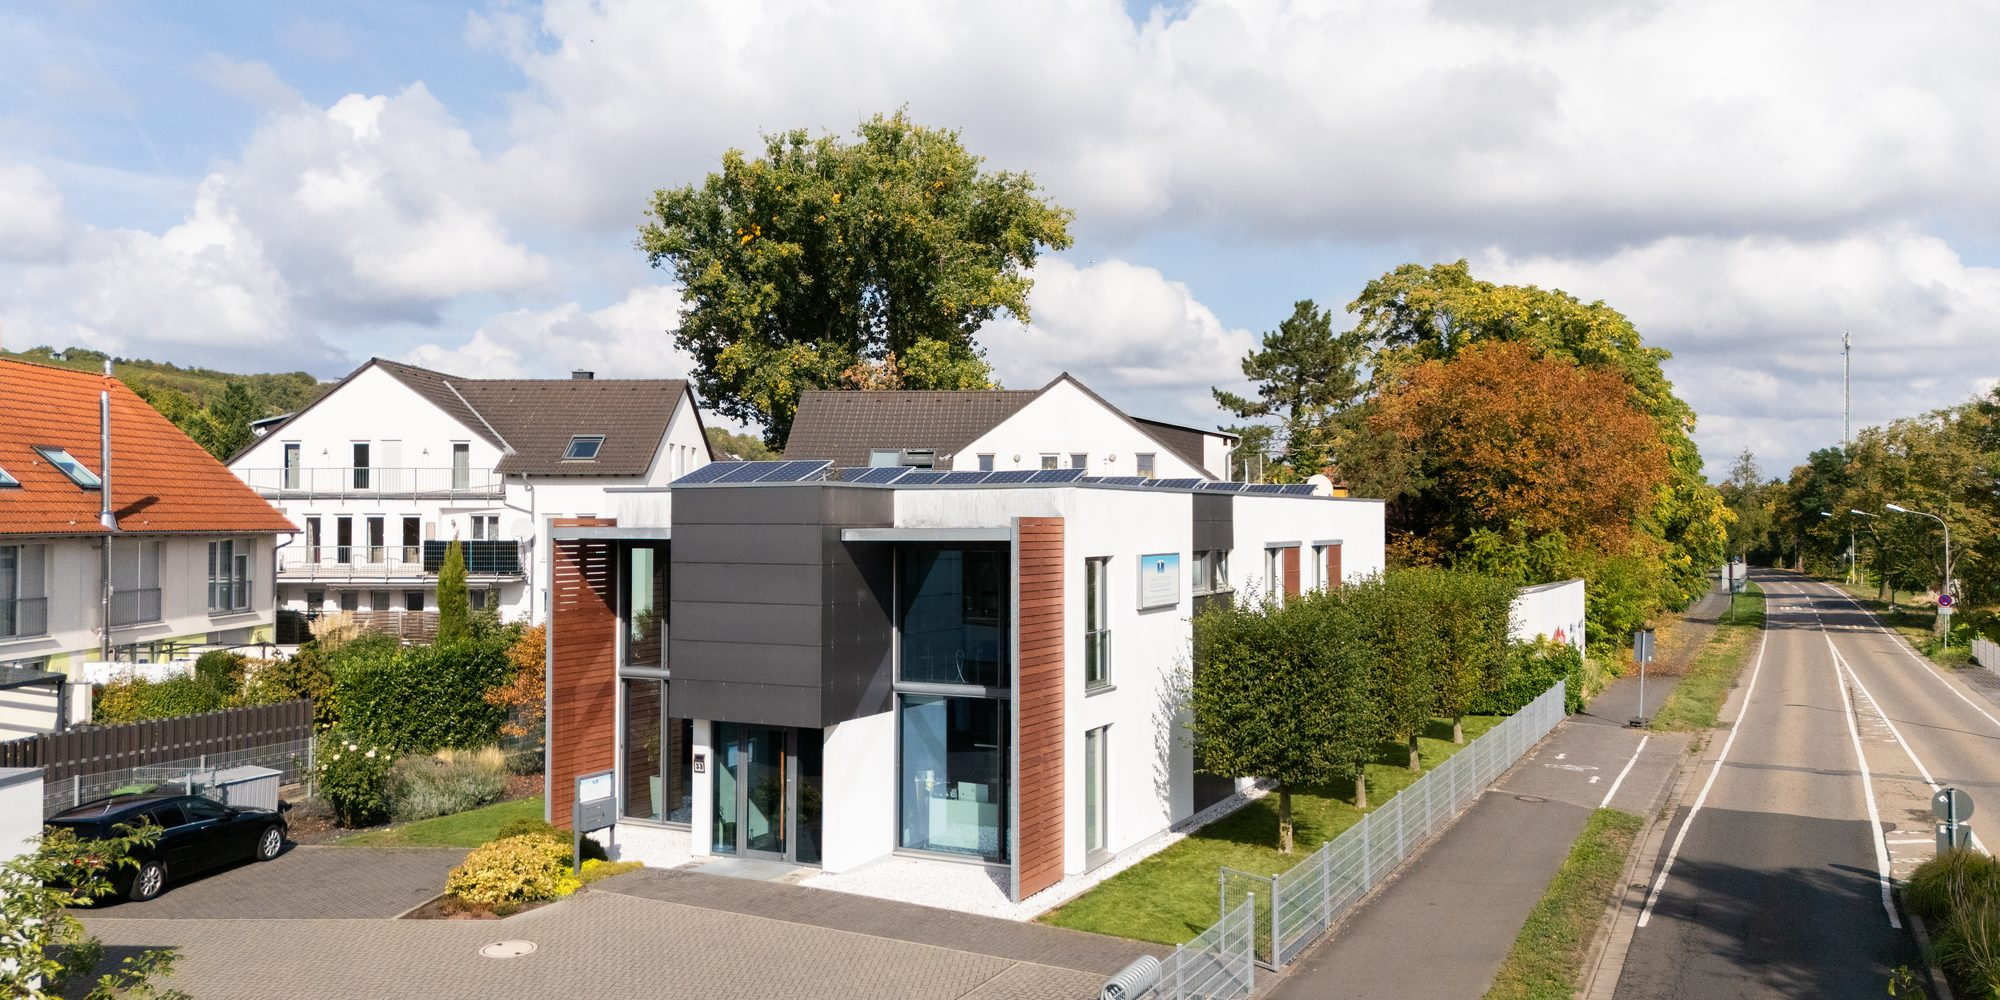
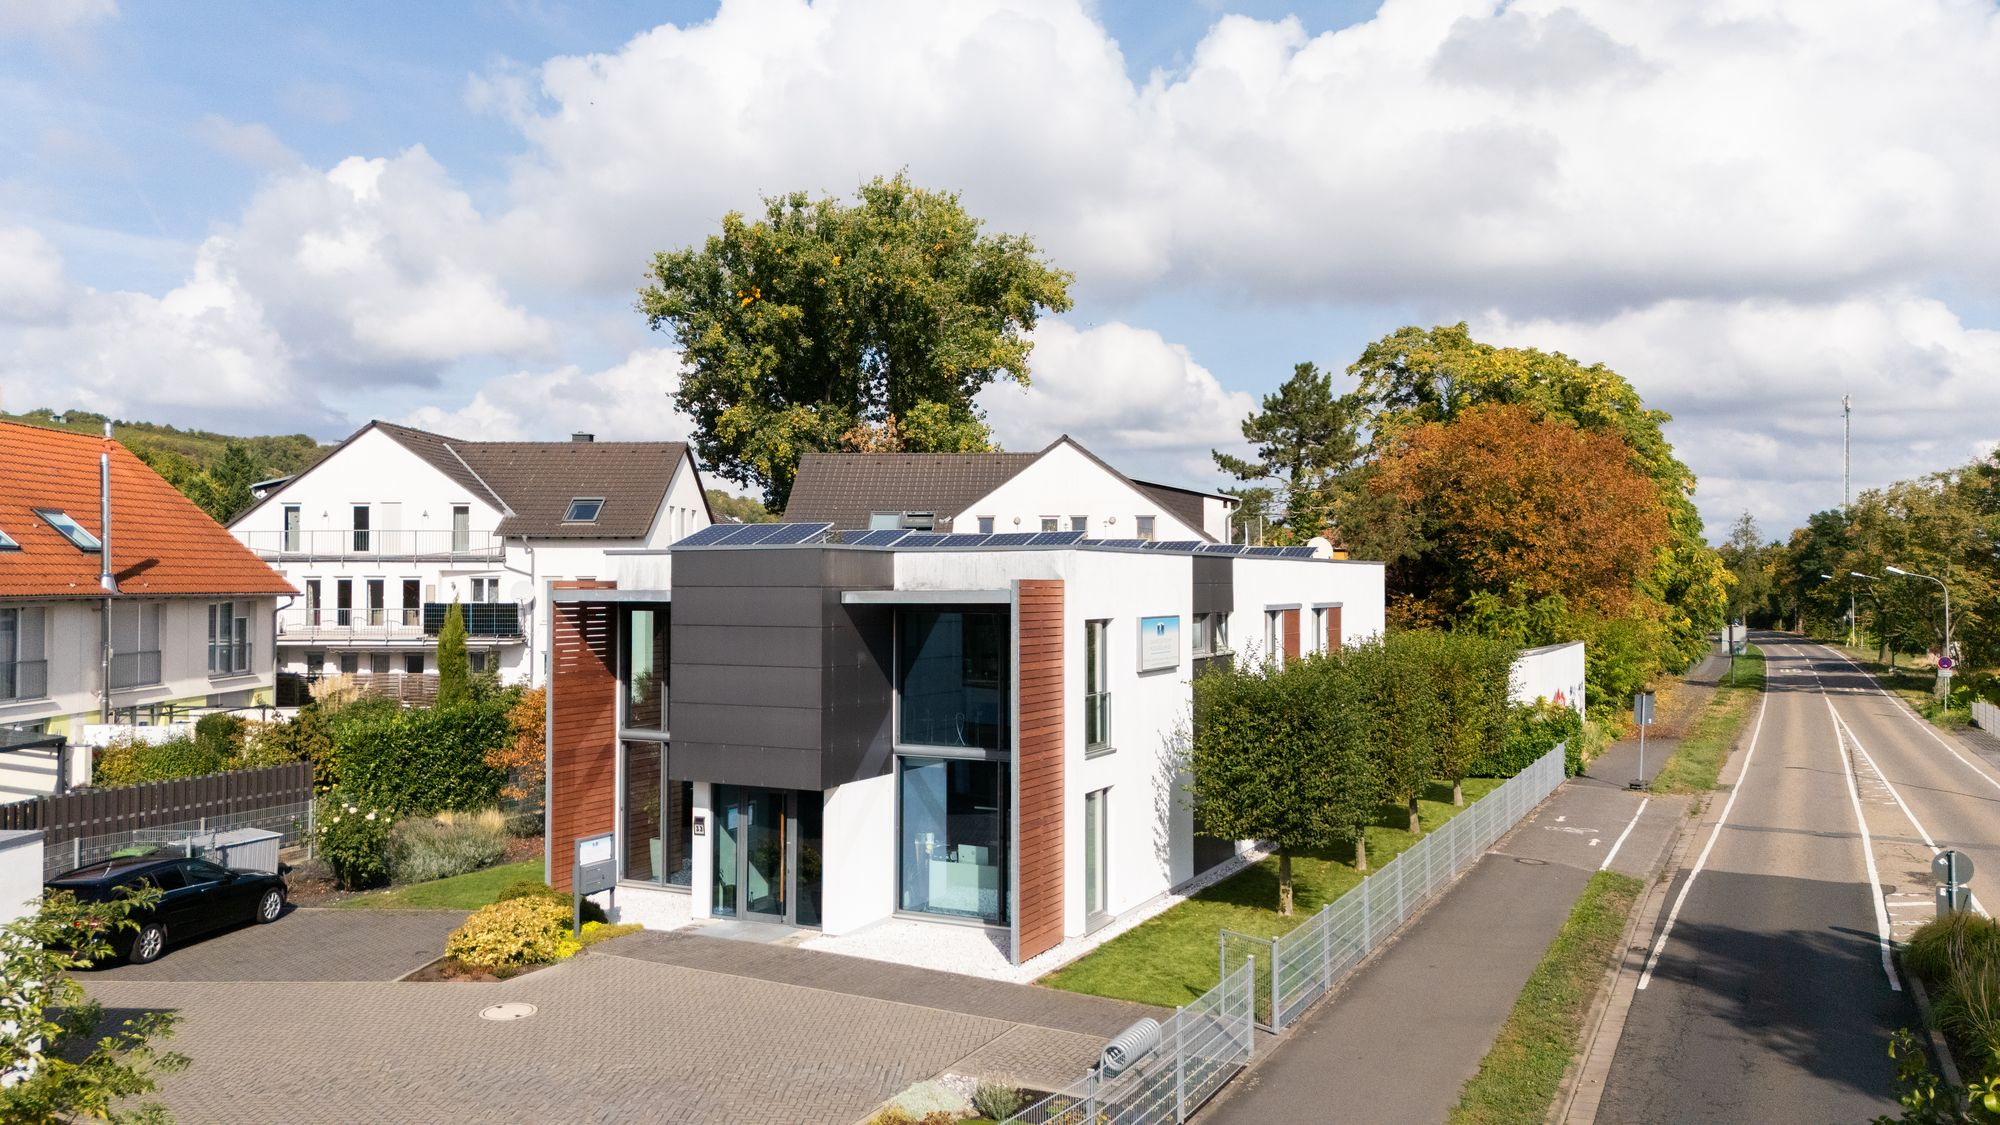
Praxis-Kopfbild weiter nach unten gesetzt (Wunsch Awan)
Bild Nr. 10 jetzt in voller Höhe (2000x1125 statt auf 2:1 beschnitten) und mit
object-position 50% 85%, damit auf breiten Bildschirmen die Fassade zu sehen ist und nicht nur das Dach.

Claude-Session: https://claude.ai/code/session_01N6LENLdCUHbCSPuMQbj8wW

diff --git a/website/praxis.html b/website/praxis.html
@@ -47,7 +47,7 @@
 <main id="inhalt">
 <nav class="wrap brotkrumen" aria-label="Brotkrümelnavigation"><a href="index.html">Startseite</a> <span aria-hidden="true">/</span> <span aria-current="page">Praxis</span></nav>
 <section class="seitenkopf mit-bild">
-  <div class="seitenkopf-bild" data-parallax><picture><source srcset="assets/img/praxis-kopf.webp" type="image/webp"><img src="assets/img/praxis-kopf.jpg" alt="Das Zahnzentrum Messerschmidt in Mainz-Laubenheim aus der Luft" width="2000" height="1000" fetchpriority="high"></picture></div>
+  <div class="seitenkopf-bild" data-parallax><picture><source srcset="assets/img/praxis-kopf.webp" type="image/webp"><img src="assets/img/praxis-kopf.jpg" alt="Das Zahnzentrum Messerschmidt in Mainz-Laubenheim aus der Luft" width="2000" height="1125" style="object-position:50% 85%" fetchpriority="high"></picture></div>
   <div class="wrap seitenkopf-text">
     <p class="dachzeile dachzeile-hell">Praxis</p>
     <h1>Ein Haus, gebaut für Ihr Wohlbefinden.</h1>
